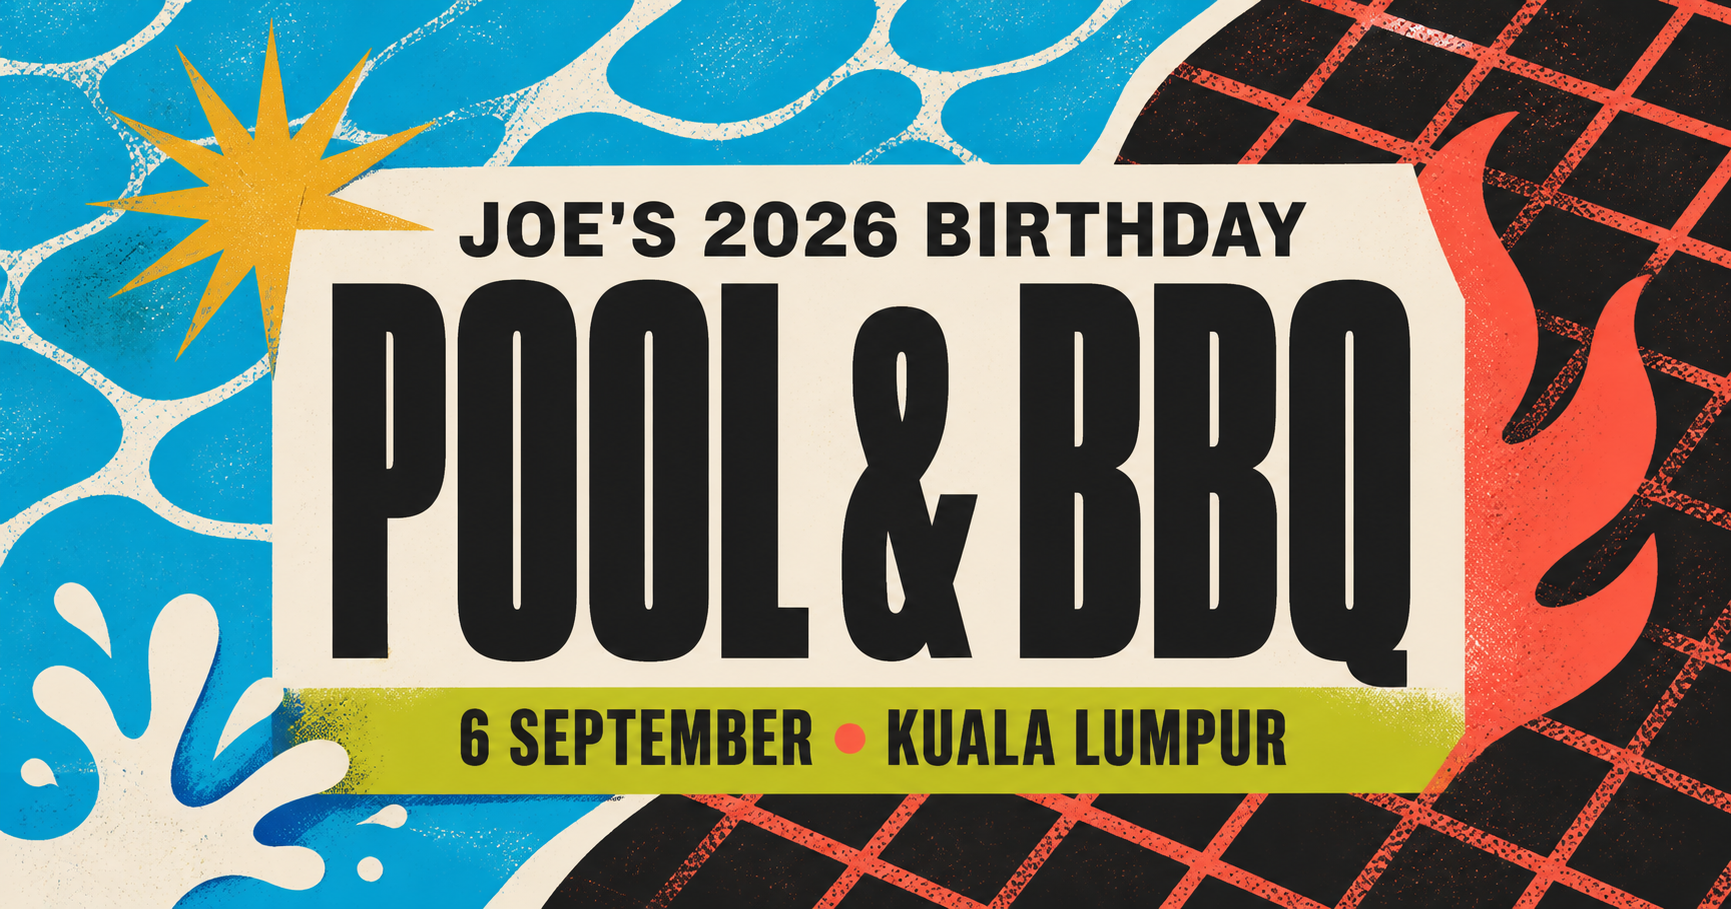
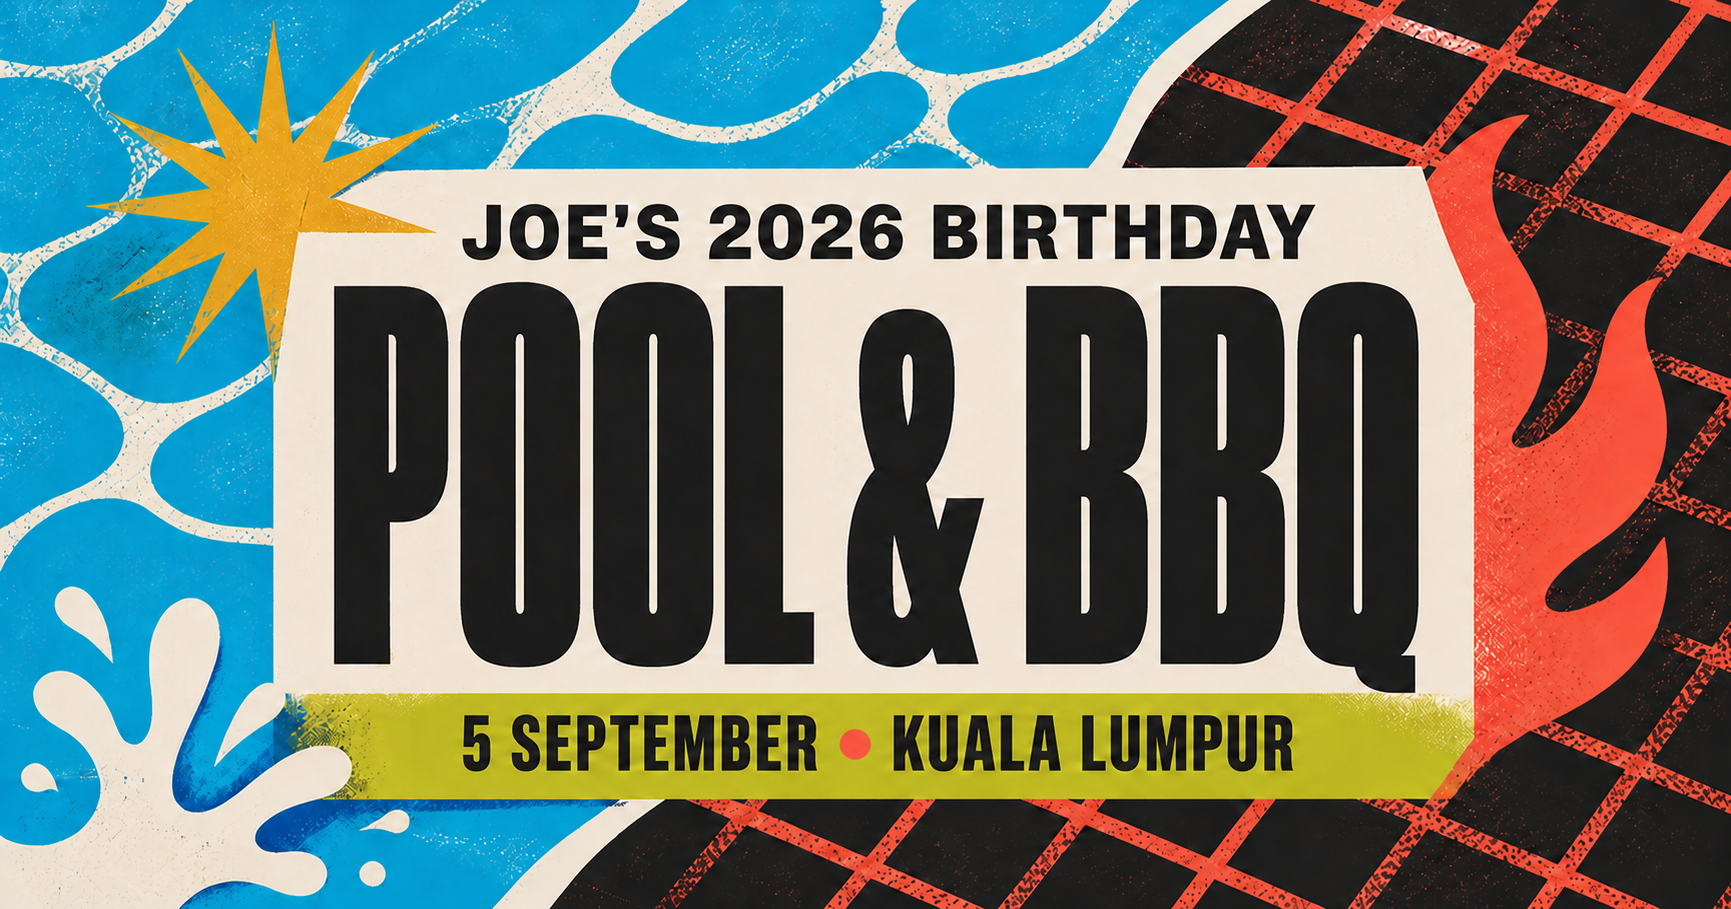
fix: correct birthday date and photo framing

diff --git a/src/pages/birthday/2026/_data/party.ts b/src/pages/birthday/2026/_data/party.ts
@@ -1,6 +1,6 @@
 export const party = {
 	year: '2026',
-	date: 'Sunday, 6 September',
+	date: 'Saturday, 5 September',
 	location: 'Verve Suites, Kuala Lumpur',
 	tagline: 'Pool first. Fire second. One more photo for the trilogy.',
 };

diff --git a/src/pages/birthday/2026/_styles/birthday.css b/src/pages/birthday/2026/_styles/birthday.css
@@ -337,8 +337,8 @@ img {
 
 .photo-card img {
 	width: 100%;
-	aspect-ratio: 3 / 4;
-	object-fit: cover;
+	height: auto;
+	object-fit: contain;
 }
 
 .photo-number {

diff --git a/docs/STATUS.md b/docs/STATUS.md
@@ -11,7 +11,7 @@ publicly validated DNSSEC; GoDaddy remains the registrar. `www.joeaman.ai`
 redirects permanently to the apex domain.
 
 The first subpage is `/birthday/2026/`: a responsive, unlisted birthday
-invitation for Joe's September 6 pool party and barbecue at Verve Suites. It
+invitation for Joe's September 5 pool party and barbecue at Verve Suites. It
 includes the supplied barbecue photos, an editable guest list and menu, a
 placeholder for the planned third photo, and a route-specific social preview
 image. It is part of `main` and deploys through the existing Cloudflare Pages
@@ -31,7 +31,7 @@ Git integration.
 
 ## Open questions
 
-- What time should the September 6 birthday party begin?
+- What time should the September 5 birthday party begin?
 - Which drinks, sides, and guest contributions should be added to the menu?
 - Decide the URL and deployment boundary for the first self-contained project
   when its requirements are known; the initial convention is
